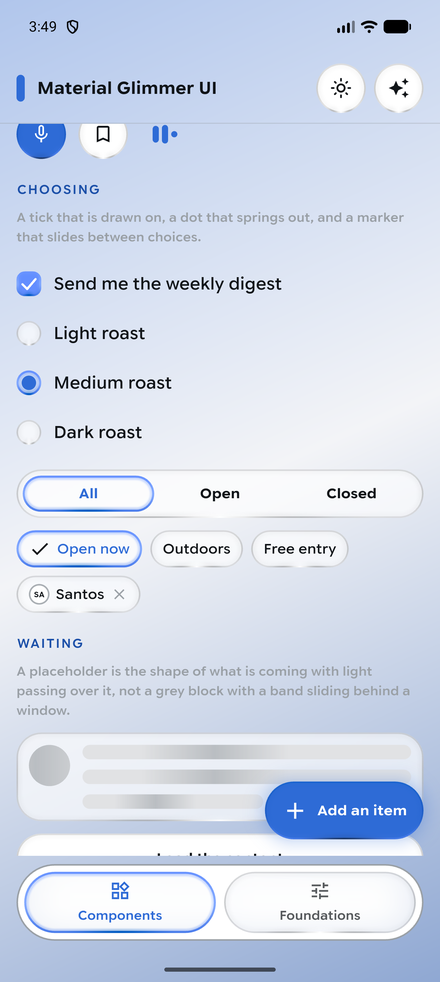
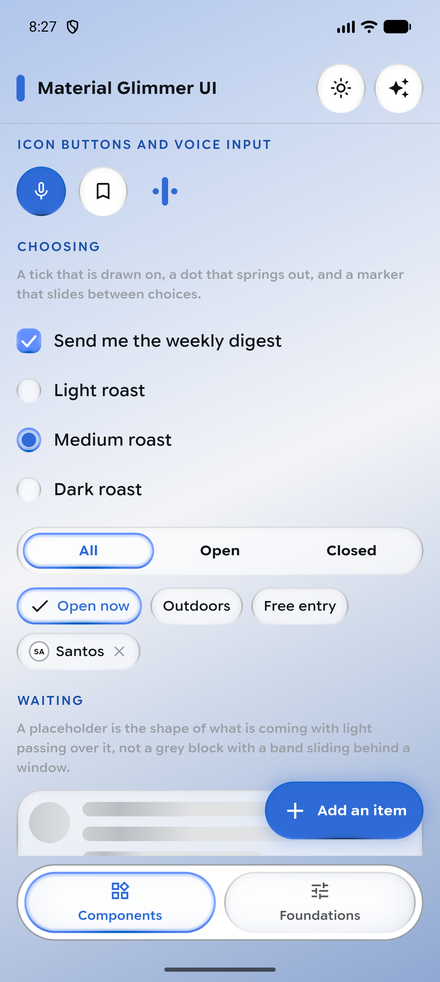
The light ring was a groove where the dark one is a lit edge
Measured against the surface each sits on, the two resting edges were
not the same idea in different colours.

Dark ran +0.491, +0.010, -0.003, +0.103 in luminance, clockwise from the
top-left: every stop at or above the surface, one bright arc where the
light lands and nothing anywhere else. Light ran +0.000, -0.201, -0.336,
-0.241: every stop at or below it, and only 0.14 between the lightest
and the darkest of the three that were visible at all. A ring of roughly
equal shade is an outline, which is why a light card read as a flat
rectangle with a border while the dark one read as a raised pane.

Inverting the dark ring is not the fix, tempting as it looks. That puts
the bright stop at the bottom-right, and a form lit from below reads as
pressed into the page rather than raised off it. Light comes from the
top-left in both themes because that is a fact about light, not about
the palette.

What actually differs is which direction has room. #303030 has most of a
stop of headroom upward, so dark can afford to say everything with a
highlight. White has none: a white highlight on a white surface is zero
by definition, which is exactly what the top-left stop measured. So the
light ring says the same thing in shade, and carries the lighting in how
steeply that shade deepens away from the light rather than in a bright
stop.

The stops are now 0, -0.06, -0.20 and -0.46, a swing of 0.461 against
dark's 0.495. The spread was the missing part, not the depth.
[…]

diff --git a/lib/src/glimmer_edge.dart b/lib/src/glimmer_edge.dart
@@ -39,16 +39,27 @@ class GlimmerEdge {
 
   /// The resting edge on a light ground.
   ///
-  /// The dark corners are pale greys, which is right against black and wrong
-  /// against white: the far corner is the brightest of the four, and on a light
-  /// background it lands as a white smear along the bottom of every
-  /// component. Light still comes from the top-left, so the highlight stays
-  /// there and the rest of the ring becomes shade instead of glare.
+  /// Light comes from the top-left in both themes, because that is a fact
+  /// about light rather than a fact about the palette. Inverting the dark ring
+  /// instead would put the bright stop at the bottom-right, and a form lit from
+  /// below reads as pressed into the page rather than raised off it.
+  ///
+  /// What changes is which direction has room. On `#303030` there is most of a
+  /// stop of headroom upward, so the dark ring is a highlight arc at the
+  /// top-left and nothing anywhere else. On white there is none at all: a white
+  /// highlight on a white surface is zero by definition. So the same shape is
+  /// drawn in shade, and the lighting is carried by how steeply the shade
+  /// deepens away from the light, not by a bright stop.
+  ///
+  /// The spread matters more than the depth. These stops run 0, -0.06, -0.20
+  /// and -0.46 in luminance against the surface, which is about the swing the
+  /// dark ring has. An even outline of roughly equal stops is what made the
+  /// light theme read as a flat rectangle with a border.
   const GlimmerEdge.idleLight()
-      : topLeft = const Color(0xE6FFFFFF),
-        topRight = const Color(0x1A101418),
-        bottomRight = const Color(0x2E101418),
-        bottomLeft = const Color(0x20101418);
+      : topLeft = const Color(0x00101418),
+        topRight = const Color(0x07101418),
+        bottomRight = const Color(0x42101418),
+        bottomLeft = const Color(0x1A101418);
 
   /// The focused edge, derived from [focal].
   ///
